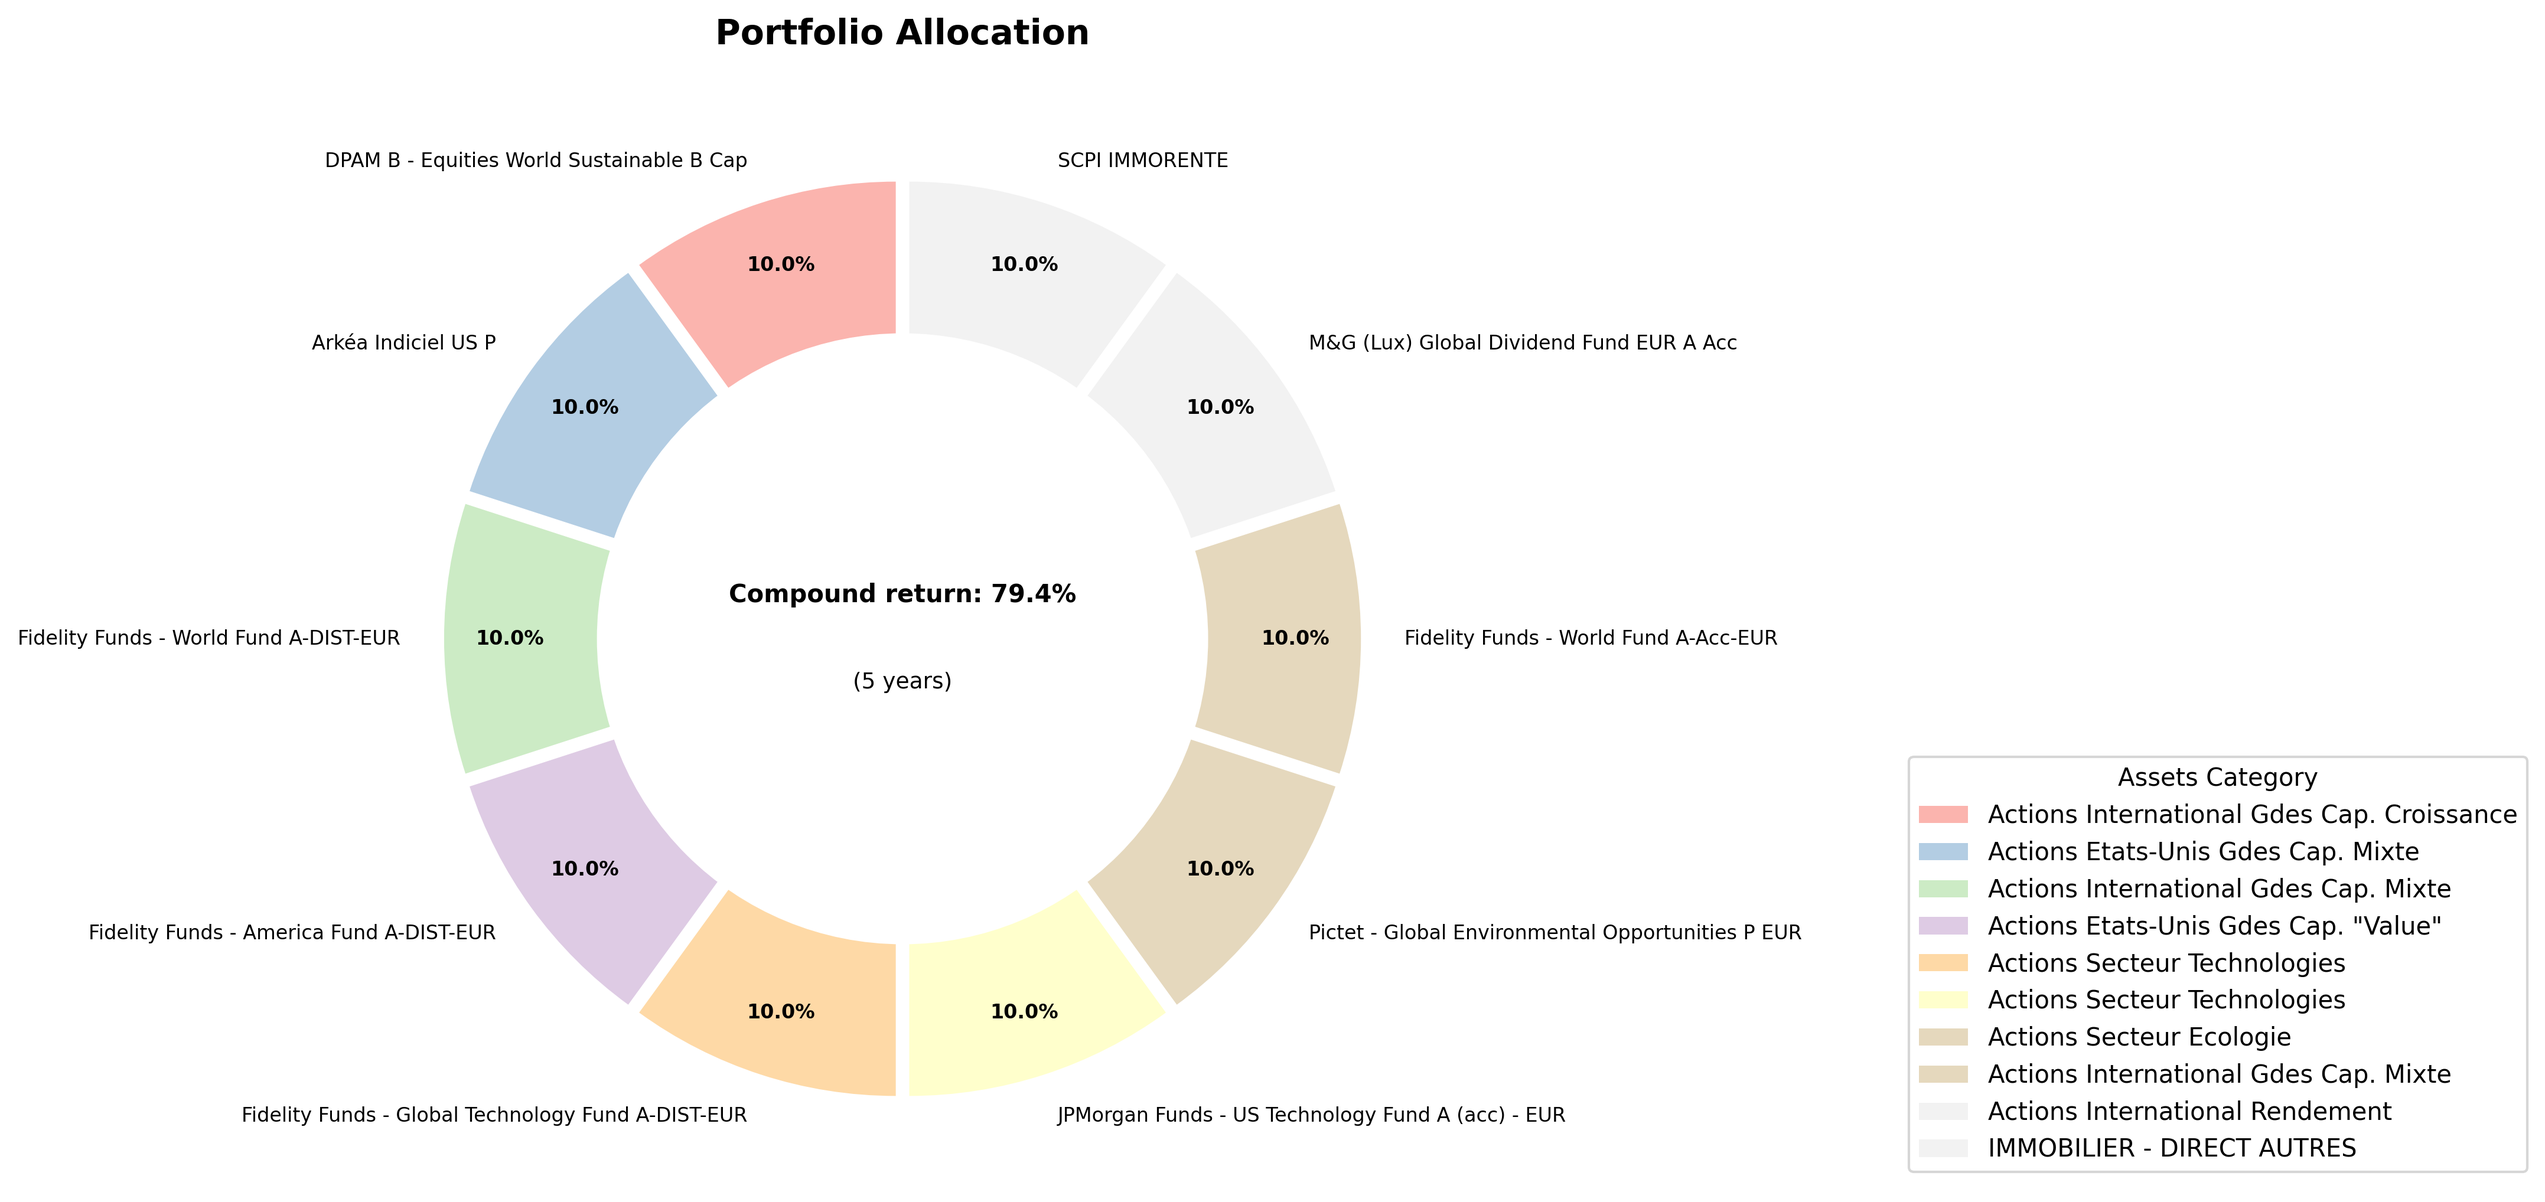
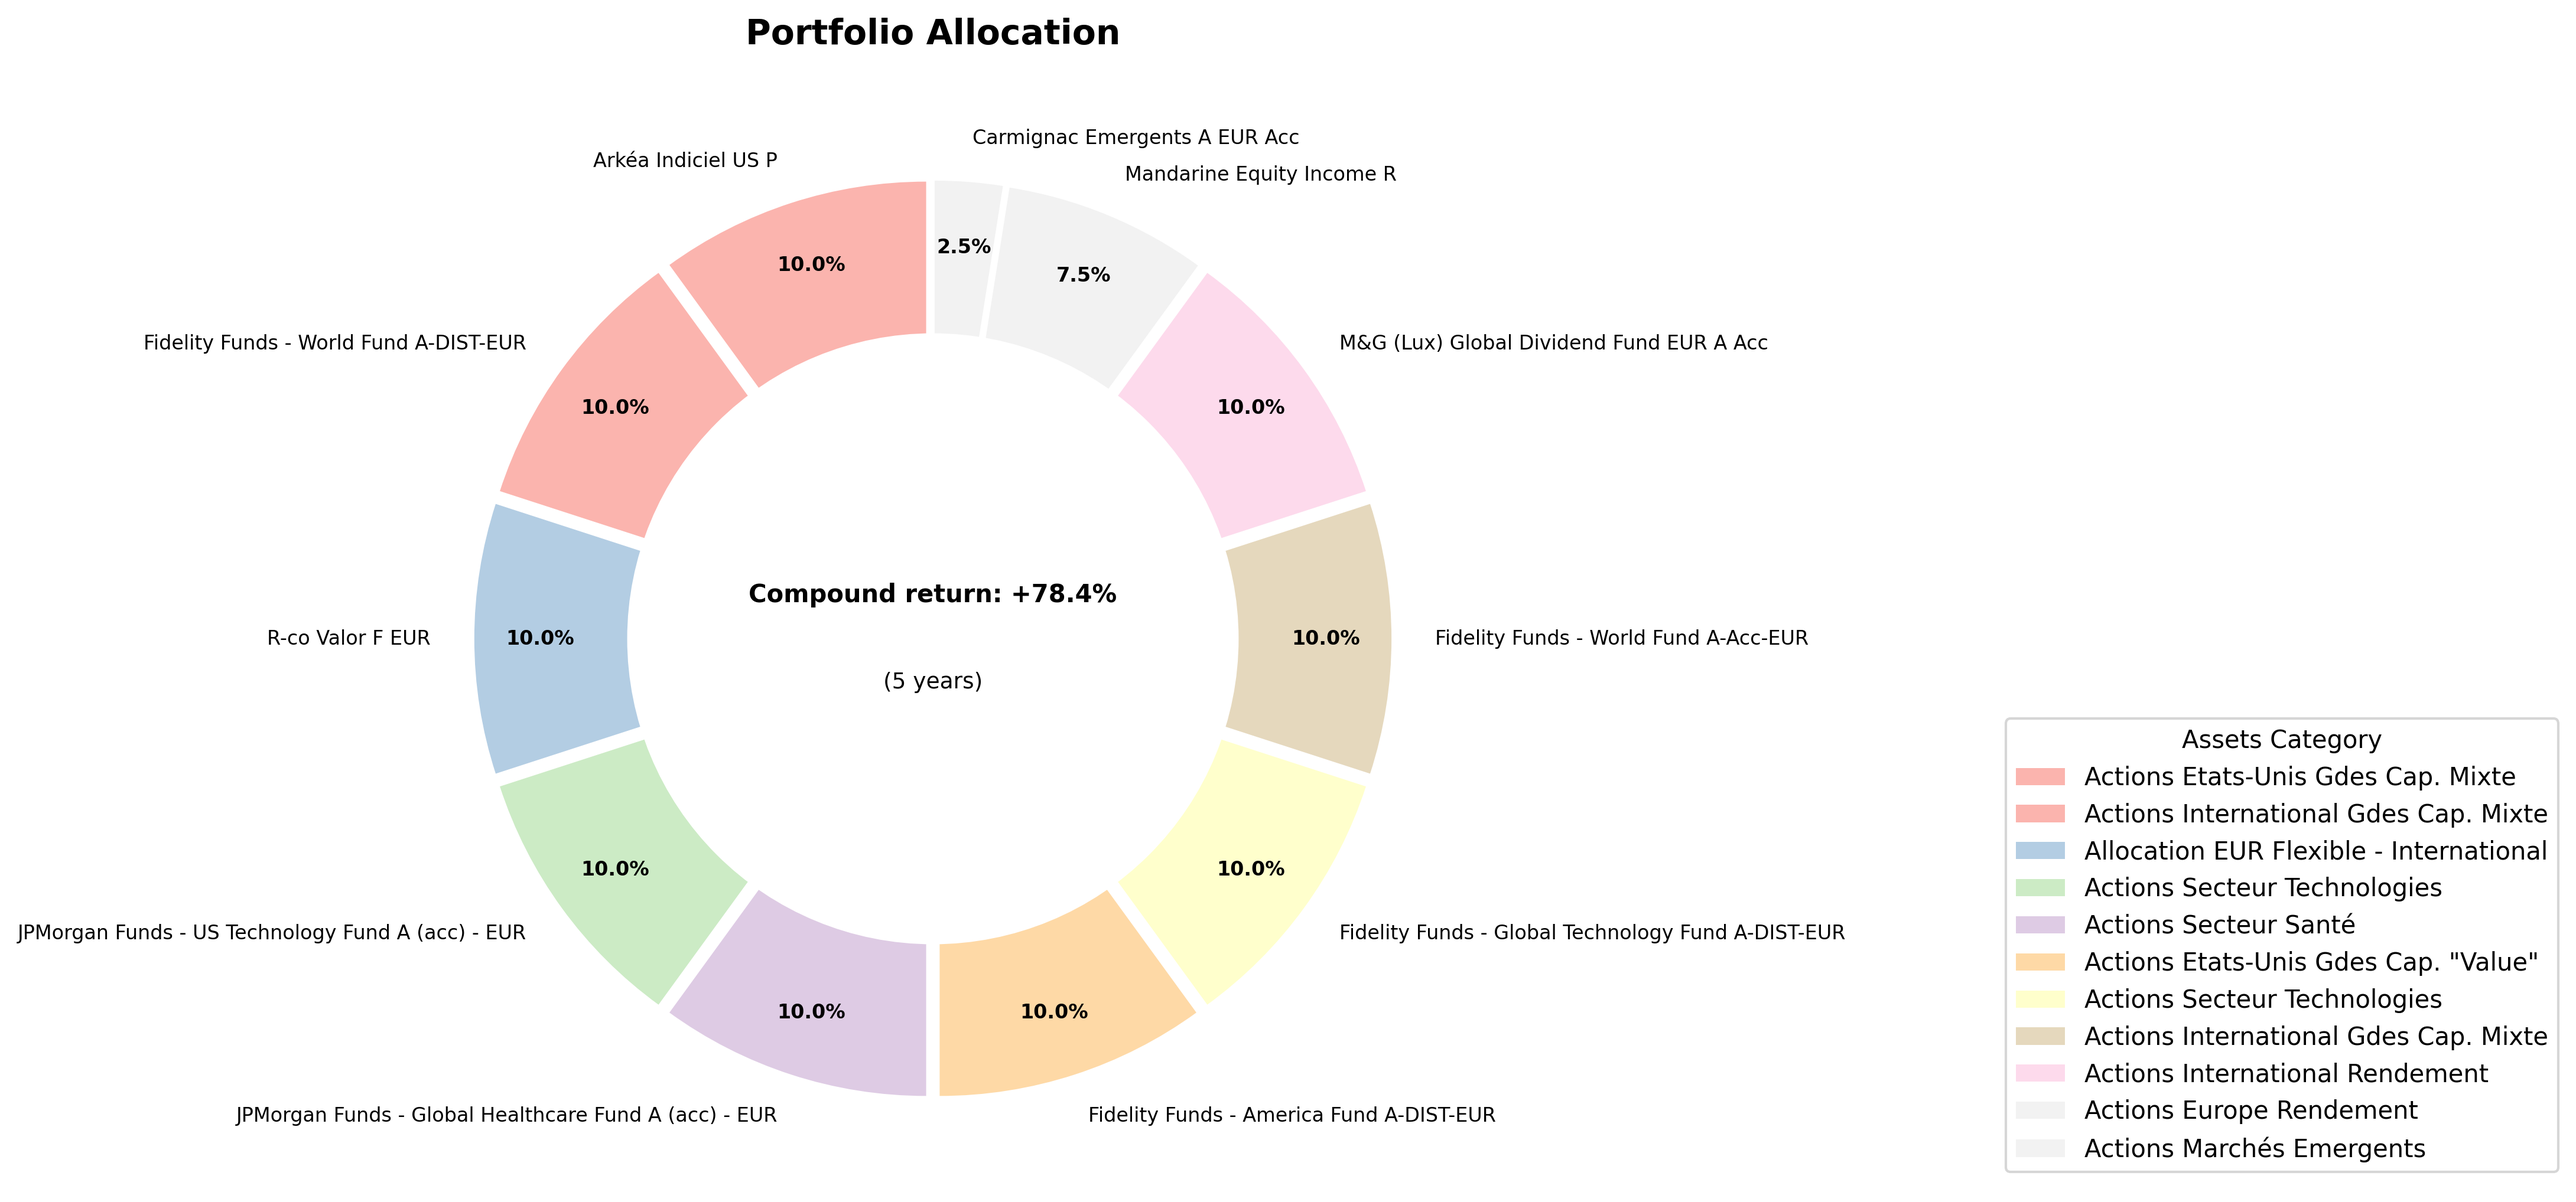
[+] More accurate Sharpe ratio computation

diff --git a/portfolio-optimizer.py b/portfolio-optimizer.py
@@ -19,12 +19,12 @@ class DataManager:
         self.df = self._load_and_clean_data()
         self.category_data = self._prepare_category_data()
         self.returns_data = self._prepare_returns_data()
+        self.covariance_matrix = self._calculate_covariance_matrix()
 
     def _load_and_clean_data(self) -> pd.DataFrame:
         """Load and clean the data"""
-        df = pd.read_csv(self.data_path)
-        df = df[['ISIN', 'Unit of account', 'Category', '2018', '2019', '2020', '2021', '2022', '2023', '2024', 'Volatility 3 years', 'Fees', 'Sharpe']]
-        df.set_index('ISIN', inplace=True)
+        df = pd.read_csv(self.data_path, index_col=0, header=0)
+        df = df[['Unit of account', 'Category', '2018', '2019', '2020', '2021', '2022', '2023', '2024', 'Volatility 5 years', 'Volatility 3 years', 'Fees', 'Sharpe']]
         return df
 
     def _prepare_category_data(self) -> pd.DataFrame:
@@ -44,9 +44,14 @@ class DataManager:
 
     def _prepare_returns_data(self) -> pd.DataFrame:
         """Prepare returns data"""
-        returns_cols = [ '2020', '2021', '2022', '2023', '2024']
+        returns_cols = ['2020', '2021', '2022', '2023', '2024']
         returns_data = self.df[returns_cols].copy()
         return returns_data
+
+    def _calculate_covariance_matrix(self) -> pd.DataFrame:
+        """Calculate covariance matrix of annual returns"""
+        # For annual returns data, no need for daily conversion
+        return self.returns_data.T.cov()  # Direct covariance of annual returns
 
 @dataclass
 class Portfolio:
@@ -67,11 +72,21 @@ class PortfolioOptimizer:
 
     def _portfolio_stats(self, weights: np.ndarray) -> tuple:
         """Calculate portfolio statistics"""
-        portfolio_compound_return = np.sum(weights * (np.prod(1 + self.data_manager.returns_data, axis=1) - 1))
-        portfolio_return = np.sum(weights * self.data_manager.returns_data.mean(axis=1))
-        portfolio_standard_deviation = np.sqrt(np.sum(weights * self.data_manager.df['Volatility 3 years'].values))
-        sharpe_ratio = (portfolio_return - self.risk_free_rate) / portfolio_standard_deviation
-        return portfolio_compound_return, sharpe_ratio
+        # Expected annual return
+        expected_return = np.dot(weights, self.data_manager.returns_data.mean(axis=1))
+        
+        # Portfolio volatility (standard deviation)
+        cov_matrix = self.data_manager.covariance_matrix.values
+        portfolio_volatility = np.sqrt(weights.T @ cov_matrix @ weights)
+        
+        # Sharpe ratio
+        sharpe_ratio = (expected_return - self.risk_free_rate) / portfolio_volatility
+        
+        # Compound return
+        annual_returns = self.data_manager.returns_data.T @ weights
+        compound_return = np.prod(1 + annual_returns) - 1
+        
+        return compound_return, sharpe_ratio
 
     def _negative_objective(self, weights: np.ndarray) -> float:
         """Objective function to minimize"""
@@ -162,7 +177,7 @@ def plot_portfolio_allocation(allocation: pd.DataFrame, save_path: str, compound
     plt.gca().add_artist(centre_circle)
     
     # Compound return and duration in center
-    plt.text(0, 0.1, f"Compound return: {compound_return:.1f}%", 
+    plt.text(0, 0.1, f"Compound return: +{compound_return:.1f}%", 
              ha='center', va='center', fontsize=10, fontweight='bold')
     plt.text(0, -0.1, f"({years} years)", 
              ha='center', va='center', fontsize=9)
@@ -183,7 +198,10 @@ def main():
     """Main function to run the portfolio optimizer"""
     if not os.path.exists(os.path.join('data', 'processed', 'data.csv')):
         print("Processing data...")
-        process_data(os.path.join('data', 'PREVI-OPTIONS.xls'))
+        process_data(
+            os.path.join('data', 'PREVI-OPTIONS.xls'),
+            min_return=0.05
+        )
 
     # Preprocess the data
     data_manager = DataManager(
@@ -194,14 +212,14 @@ def main():
     # Optimize the portfolio
     optimizer = PortfolioOptimizer(
         data_manager=data_manager,
-        max_position_size=0.1,
-        risk_free_rate=0.04,
+        max_position_size=0.5,
+        risk_free_rate=0.044,
     )
     portfolio = optimizer.optimize_portfolio()
 
     # Get the portfolio metrics
     print("\nPortfolio Metrics:")
-    print(f"Compound Return: {portfolio.compound_return*100:.2f}%  ({data_manager.returns_data.shape[1]} years)")
+    print(f"Compound Return: +{portfolio.compound_return*100:.2f}%  ({data_manager.returns_data.shape[1]} years)")
     print(f"Sharpe Ratio: {portfolio.sharpe_ratio:.2f}")
 
     # Plot and save allocation visualization

diff --git a/preprocessing.py b/preprocessing.py
@@ -1,7 +1,7 @@
 import os
 import pandas as pd
 
-def process_data(data_path: str):
+def process_data(data_path: str, min_return: float = 0.05):
     """Process the data"""
     df = pd.read_excel(data_path)
     df = df.iloc[1:]
@@ -34,6 +34,7 @@ def process_data(data_path: str):
     df['Fees'] = df['Fees'].str.replace(',', '.').str.replace('%', '').astype(float) / 100
     df[df.select_dtypes(include=['float64', 'int64']).columns] = df[df.select_dtypes(include=['float64', 'int64']).columns].round(4)
     df.set_index('ISIN', inplace=True)
+    df = df[df[['2020', '2021', '2022', '2023', '2024']].mean(axis=1) > min_return]
     df.to_csv(os.path.join('data', 'processed', 'data.csv'), index=True)
 
 if __name__ == '__main__':

diff --git a/README.md b/README.md
@@ -26,7 +26,7 @@ The returns over volatility is plotted below.
 
 A basic portfolio optimizer is implemented in the `portfolio-optimizer.py` file. The simplicity of the data induced me to implement a basic optimization strategy.
 
-The optimizer maximizes the Sharpe ratio, which is defined as the ratio of the portfolio return minus the risk-free rate over the portfolio volatility.
+The optimizer maximizes the Sharpe ratio, which is defined as the ratio of the portfolio return minus the risk-free rate over the portfolio volatility, which is defined as the square root of the portfolio variance, using the covariance matrix of the yearly returns.
 
 ### Running the optimizer
 
@@ -51,3 +51,9 @@ Portfolio allocation for a 20% maximum single position size.
 
 ![Portfolio 30](visualizations/portfolio_allocation_30.png)
 Portfolio allocation for a 30% maximum single position size.
+
+### Limitations
+
+The optimizer is based on yearly returns, and so is the resulting Sharpe ratio. The Sharpe ratio should be calculated on daily values for an accurate risk-adjusted performance evaluation.
+
+As some products have not been available for the whole period, the optimizer has been run on a subset of the data. The optimizer should be run on the whole period to get a more accurate result.
